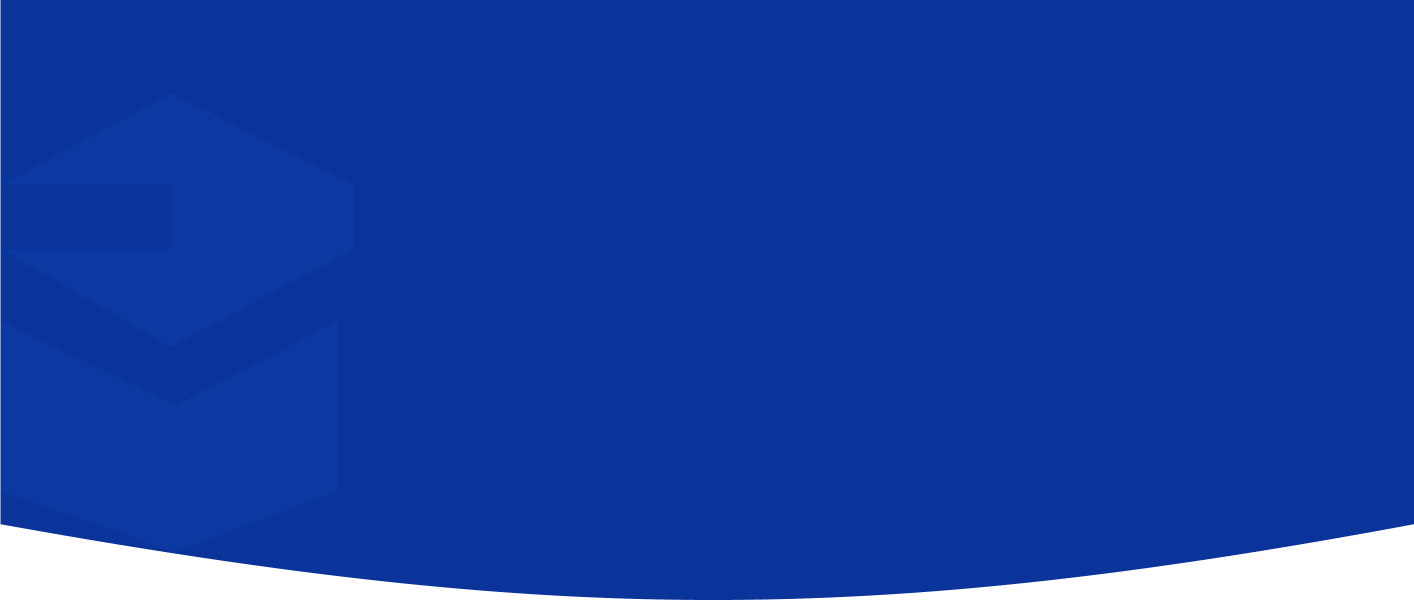
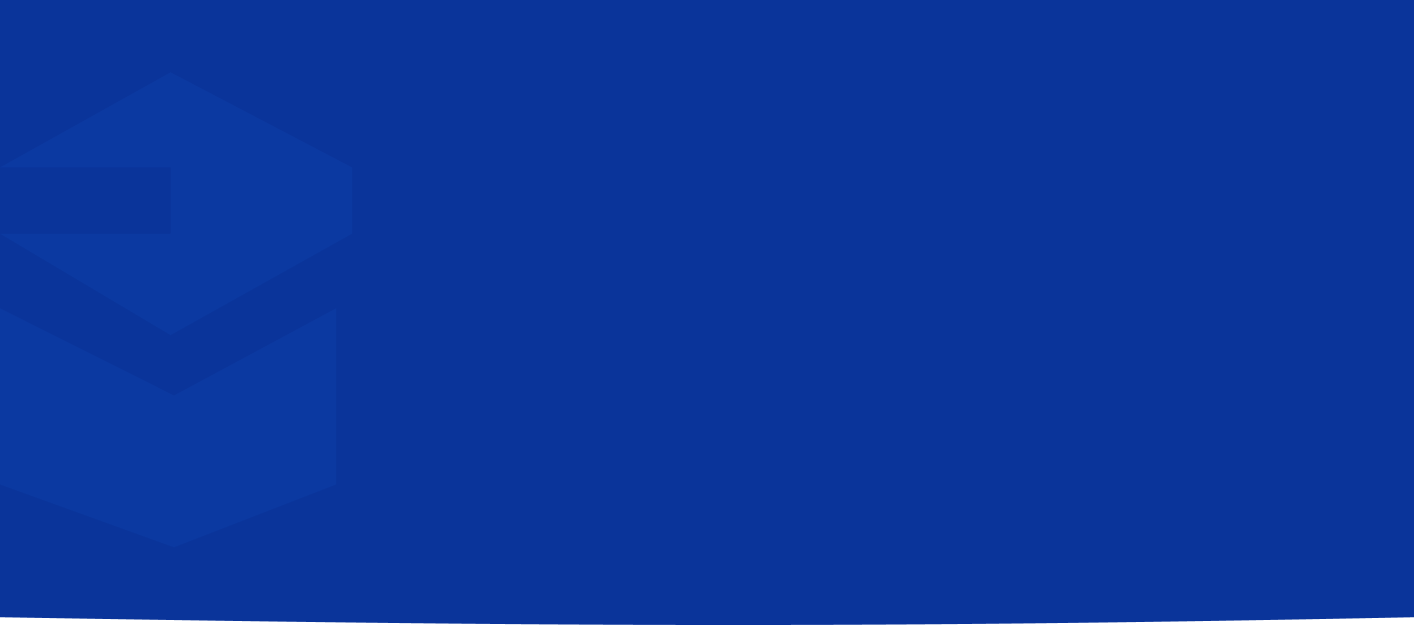
hero changes

Changed region(s): [[0.529, 0.87, 1.0, 1.0], [0.0, 0.87, 0.4979, 1.0]]

diff --git a/project/src/pages/Home.jsx b/project/src/pages/Home.jsx
@@ -6,6 +6,9 @@ import Schoolgirl2 from "../assets/schoolgirl2.png";
 import Courses from "../components/Courses";
 import Design from "../assets/designbook.png";
 import Star from "../assets/star.svg";
+import document from "../assets/document.svg";
+import teacher from "../assets/teacher.svg";
+import gradcap from "../assets/gradcap.svg";
 import coursedata from "../data/course";
 import coursedata2 from "../data/course2";
 
@@ -45,10 +48,8 @@ export default function Home(){
                 </p>
                 <div className="section-1-card-container">
                     <div className="features-card">
-                        {/* <div className="circle-container1">
-                            <img src={Document} alt="Document Icon" />
-                        </div> */}
-                        <h3 className="features-card-h3">Unlimited Access to courses</h3>
+                        <img src={document} alt="Document Icon" />
+                        <h3 className="features-card-h3">Unlimited access to courses</h3>
                         <p className="features-card-p">
                             With over 48 hours of lessons available in 24/7,
                             you will learn anything you need to know to upskill
@@ -56,9 +57,7 @@ export default function Home(){
                         </p>
                     </div>
                     <div className="features-card">
-                        {/* <div className="circle-container2">
-                            <img src={Teacher} alt="Teacher Icon" />
-                        </div> */}
+                        <img src={teacher} alt="Teacher Icon" />
                         <h3 className="features-card-h3">Taught by top instructors</h3>
                         <p className="features-card-p">
                             With over 48 hours of lessons available in 24/7,
@@ -67,9 +66,7 @@ export default function Home(){
                         </p>
                     </div>
                     <div className="features-card">
-                        {/* <div className="circle-container3">
-                            <img src={Gradcap} alt="Gradcap Icon" />
-                        </div> */}
+                        <img src={gradcap} alt="Gradcap Icon" />
                         <h3 className="features-card-h3">Learning at your pace</h3>
                         <p className="features-card-p">
                             With over 48 hours of lessons available in 24/7,

diff --git a/project/src/styles_desktop/App.css b/project/src/styles_desktop/App.css
@@ -88,7 +88,7 @@ nav {
 .hero {
   display: flex;
   flex-direction: row;
-  padding: 0em 2em 2em 5em;
+  padding: 0em 2em 0em 5em;
   background-color: #0A349A;
   background: url("../assets/hero_image.png") border-box no-repeat center;
   width: 100%;
@@ -113,10 +113,10 @@ nav {
 }
 
 .hero-right > img {
-  width: 70%;
-  margin-top: auto;
+  width: 500px;
+  /* min-width: 60%; */
   margin-left: auto;
-  transform:rotate(-1.5deg);
+  /* transform:rotate(-1.5deg); */
 }
 
 .hero-h1 {
@@ -127,7 +127,7 @@ nav {
 }
 
 .hero-p1 {
-  font-size: 0.875rem;
+  font-size: 1rem;
   color: whitesmoke;
 }
 
@@ -193,8 +193,9 @@ nav {
   display: flex;
   flex-direction: column;
   width: auto;
-  height: 300px;
-  padding: 3em 2em 2em 2em;
+  height: auto;
+  padding: 2.5em 1em 2em 1em;
+  gap: 1em;
   align-items: center;
   justify-content: center;
   box-shadow: 0px 0px 22px 5px rgba(211,218,227,0.76);
@@ -214,7 +215,7 @@ nav {
 .features-card-p {
   font-weight: 400;
   color: rgb(69, 69, 69);
-  font-size: 0.875rem;
+  font-size: 1rem;
 }
 
 .circle-container1 {
@@ -1129,13 +1130,13 @@ footer > h3 {
 
   .hero {
     height: auto;
-    padding: 6em 2em 0em 2em;
+    padding: 0em 2em 0em 2em;
     height: 600px;
   }
 
   .hero-left {
     width: 50%;
-    padding-bottom: 4em;
+    padding-bottom: 0em;
     padding-top: 2em;
   }
 
